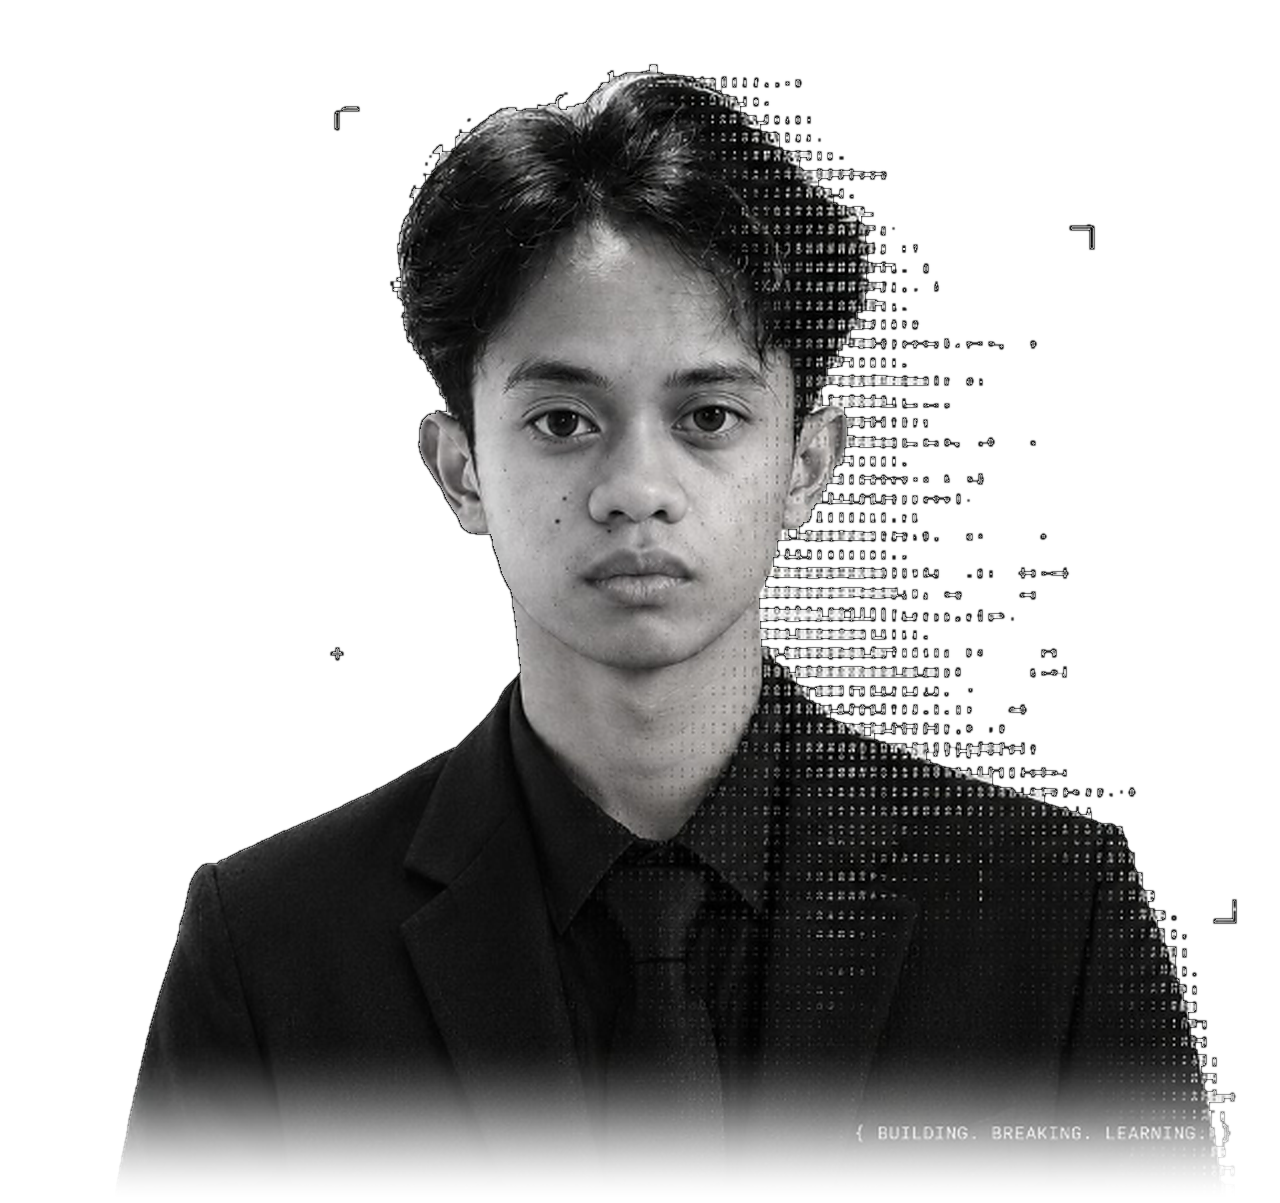
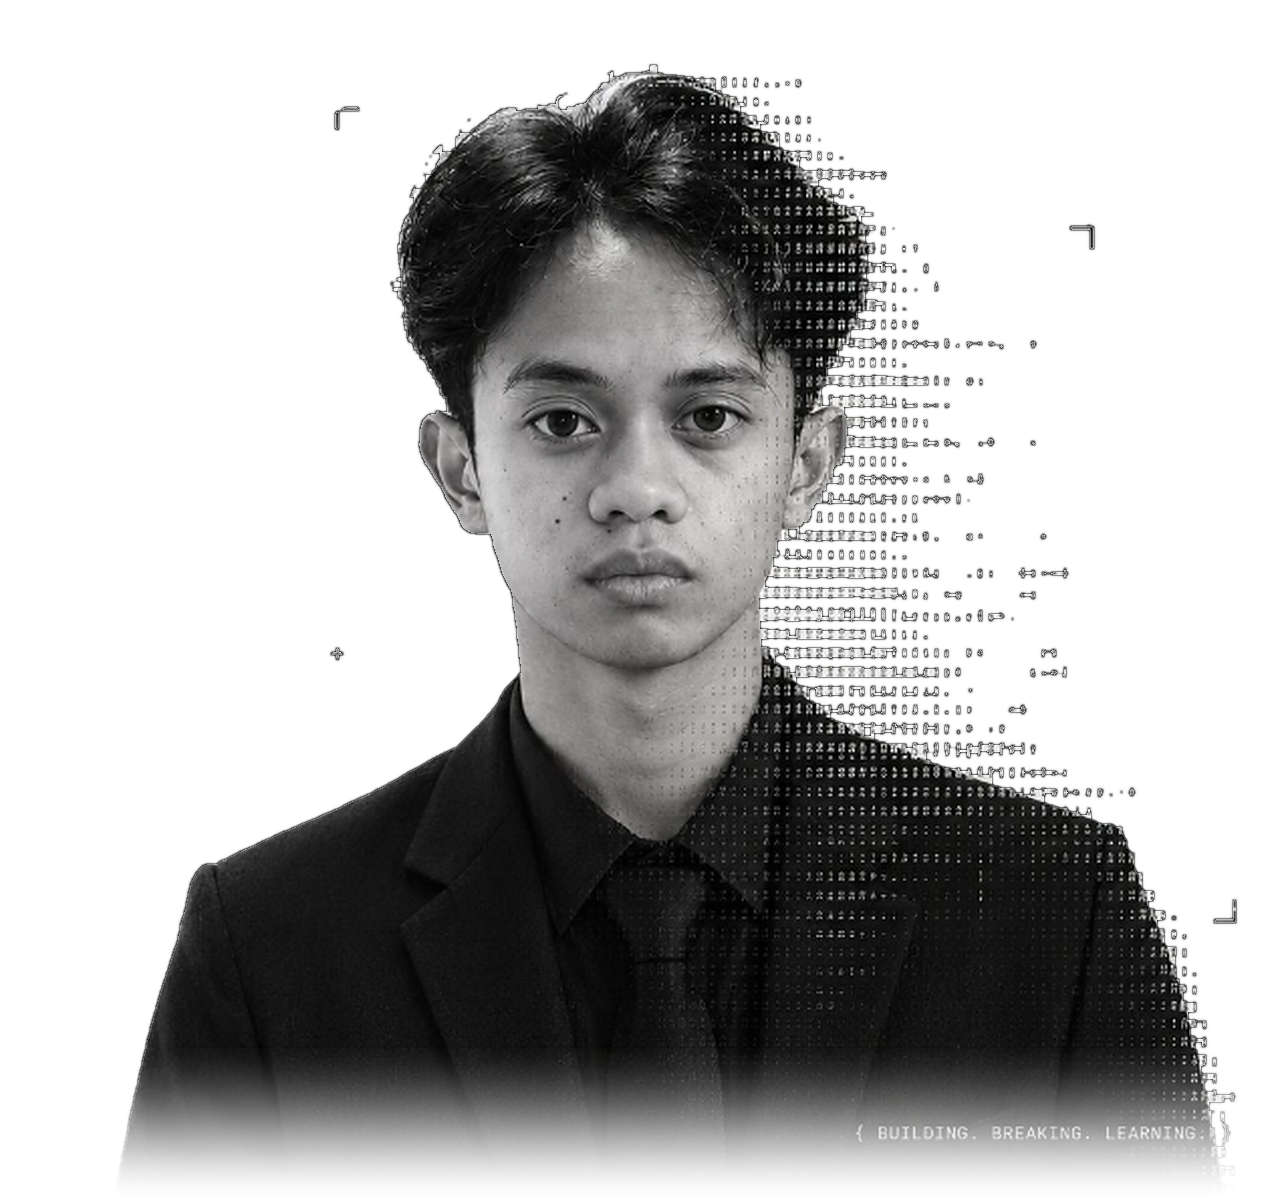
Rebuild the portrait's outer edge and set the name in Montserrat
Two separate defects, both confirmed by measuring rather than by looking.

The dark line on the neck. A difference against the source photograph is
black across the whole neck interior, so nothing was painted there. The
problem is the silhouette. The photo ramps 239 -> 134 -> 37 into the
backdrop across six pixels, and the threshold cutout started the matte at the
dark end and discarded that ramp, so the subject met the page as 247 -> 82 ->
33. Same pixels, shorter transition, which reads as a drawn line.

Fix: grow the matte outward into a 3px ring and derive the new alpha from how
far each pixel has fallen off the backdrop luminance. The backdrop is flat
here, 228-246 with a std of 1.7, so 232 is a fair single reference. The
reconstruction runs only outside the current mask, so bright pixels inside the
subject are never touched. The neck now ramps 245 -> 104 -> 50 -> 35 against
the source's 232 -> 134 -> 47 -> 35. Hair and ear edges checked, no halo.

A plain alpha blur was tried first and only moved the ramp to 247 -> 82 -> 33
by a few counts. It softens the boundary without restoring the missing
intermediate pixels, which is why it was not enough on its own.

The font. Comparing TAMPUGAO against the reference at a matched cap height,
Inter is roughly 15% narrower per character with about twice the stroke
weight. That is the entire visible difference: a neo-grotesque where the
reference is a wide geometric with hairline strokes.
[…]

Changed region(s): [[0.6875, 0.5844, 0.7188, 0.6151]]

diff --git a/src/app/layout.tsx b/src/app/layout.tsx
@@ -1,5 +1,5 @@
 import type { Metadata } from "next";
-import { Inter, JetBrains_Mono } from "next/font/google";
+import { Inter, JetBrains_Mono, Montserrat } from "next/font/google";
 import "./globals.css";
 import { Navbar } from "@/components/navbar";
 import { Footer } from "@/components/footer";
@@ -15,6 +15,18 @@ const jetbrains = JetBrains_Mono({
   subsets: ["latin"],
   variable: "--font-jetbrains",
   display: "swap",
+});
+
+// Third face, and it earns its place. The hero name is a masthead, and the
+// reference sets it in a wide geometric with hairline strokes. Measured side
+// by side at a matched cap height, Inter is about 15% narrower per character
+// and roughly twice the stroke weight, which is the whole difference between
+// the two. Scoped to the name only; nothing else moves.
+const montserrat = Montserrat({
+  subsets: ["latin"],
+  variable: "--font-montserrat",
+  display: "swap",
+  weight: ["500", "600"],
 });
 
 // Two faces, both load-bearing.
@@ -85,7 +97,7 @@ export default function RootLayout({
     <html
       lang="en"
       suppressHydrationWarning
-      className={`${inter.variable} ${jetbrains.variable}`}
+      className={`${inter.variable} ${jetbrains.variable} ${montserrat.variable}`}
     >
       <body className="min-h-screen bg-background font-sans text-foreground antialiased">
         

diff --git a/src/components/hero.tsx b/src/components/hero.tsx
@@ -30,7 +30,7 @@ export function Hero() {
                 because it pairs with the [ HELLO, I'M ] mono label above it.
                 Uppercase is done in CSS so the DOM and screen readers still get
                 the real name. */}
-            <h1 className="mt-7 font-sans text-[2.15rem] font-semibold uppercase leading-[1.06] tracking-[0.005em] sm:text-[2.85rem] lg:text-[3.3rem]">
+            <h1 className="font-masthead mt-7 text-[2.1rem] font-medium uppercase leading-[1.08] tracking-[0.01em] sm:text-[2.7rem] lg:text-[2.95rem]">
               <span className="block">Zhameer</span>
               <span className="text-outline block">Sheraz Tampugao</span>
             </h1>

diff --git a/tailwind.config.ts b/tailwind.config.ts
@@ -16,6 +16,7 @@ const config: Config = {
         sans: ["var(--font-inter)", "system-ui", "sans-serif"],
         mono: ["var(--font-jetbrains)", "ui-monospace", "monospace"],
         display: ["var(--font-jetbrains)", "ui-monospace", "monospace"],
+        masthead: ["var(--font-montserrat)", "var(--font-inter)", "sans-serif"],
       },
       colors: {
         border: "hsl(var(--border))",
